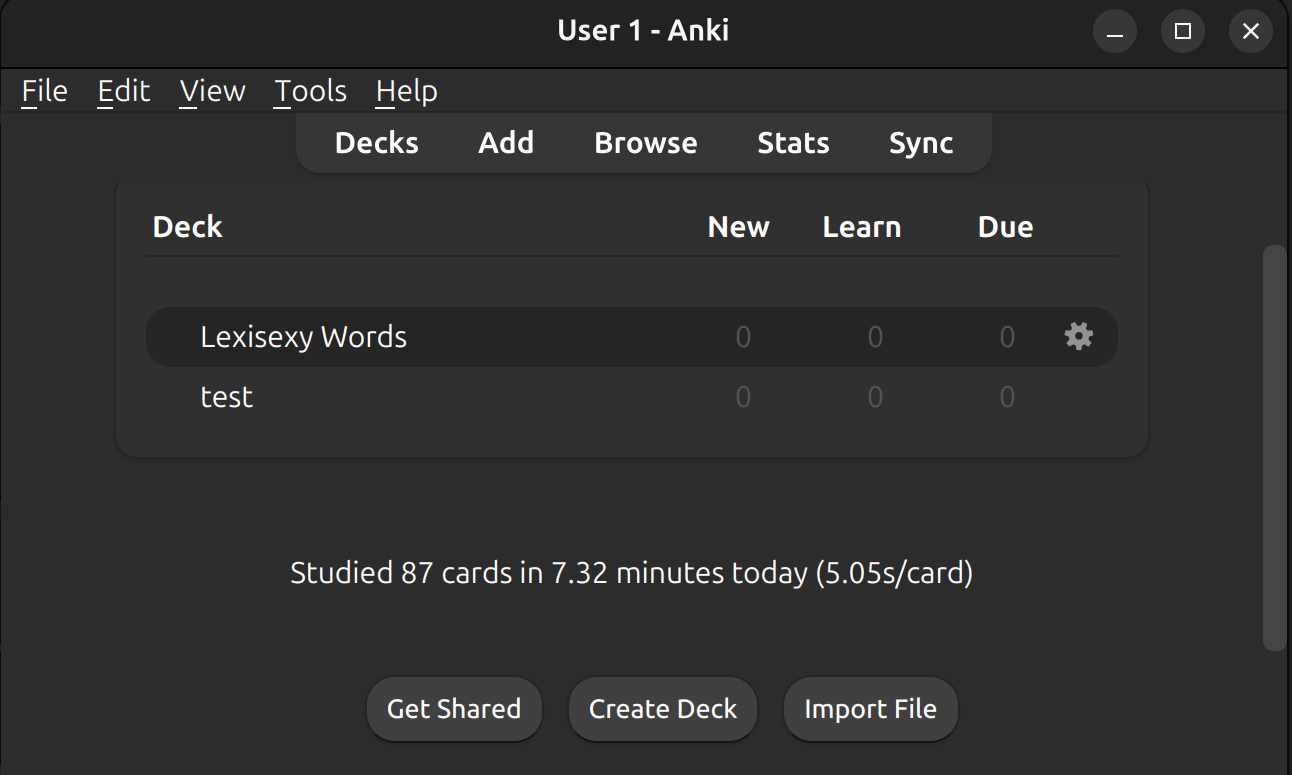
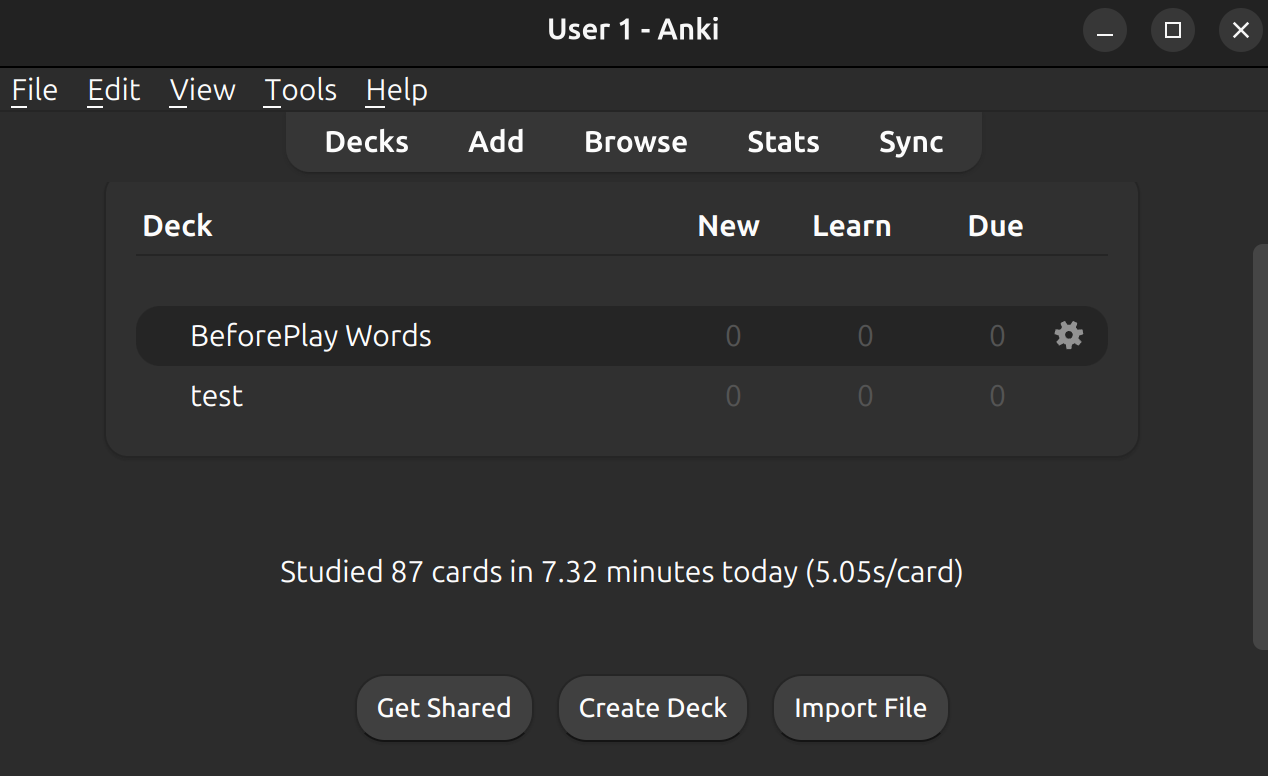
fix: rename project

diff --git a/README.md b/README.md
@@ -1,17 +1,17 @@
-# Lexisexy
+# BeforePlay
 
 I'm learning English by watching movies, but constantly pausing to look up unfamiliar words breaks the experience. So the idea came to me: extract the vocabulary from a movie's subtitles beforehand, learn the important words at my level, then watch with confidence.
-Lexisexy does exactly that — it reads **PDF** and **SRT** files, filters words by **CEFR** level, translates them into your language, and exports everything to **CSV, HTML, PDF, or Anki flashcard decks** with pronunciation audio and images.
+BeforePlay does exactly that — it reads **PDF** and **SRT** files, filters words by **CEFR** level, translates them into your language, and exports everything to **CSV, HTML, PDF, or Anki flashcard decks** with pronunciation audio and images.
 
-![Lexisexy pipeline](./diagram.svg)
+![BeforePlay pipeline](./diagram.svg)
 
 ## Installation
 
 Clone the repository and navigate to the project folder.
 
 ```bash
-git clone https://github.com/mo1ein/lexisexy.git
-cd lexisexy
+git clone https://github.com/mo1ein/BeforePlay.git
+cd BeforePlay
 uv run main.py
 ```
 
@@ -112,7 +112,7 @@ Media is cached in `.media_cache/` — subsequent runs with the same words are i
 
 After generating the `.apkg` file, you can import it into Anki from the bottom with *Import file*.
 
-![Lexisexy pipeline](./anki.png)
+![BeforePlay pipeline](./anki.png)
 
 
 ## Stopwords